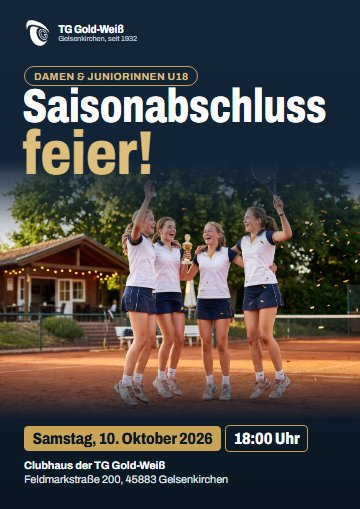
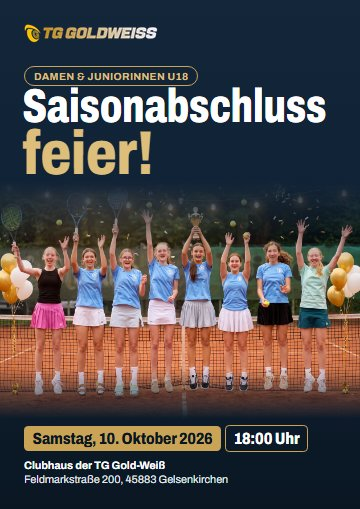
Plakat Saisonabschluss Damen/U18: Juniorinnen-Foto und Wasserzeichen TG Goldweiss

diff --git a/index.html b/index.html
@@ -180,7 +180,7 @@
             </div>
           </article>
           <article class="event ev-poster">
-            <a class="poster" href="img/events/saisonabschluss-damen-u18-gross.jpg" data-lightbox aria-label="Plakat Saisonabschlussfeier Damen und Juniorinnen U18 groß anzeigen"><img src="img/events/saisonabschluss-damen-u18.jpg" alt="Plakat zur Saisonabschlussfeier der Damen und Juniorinnen U18 am 10. Oktober 2026: vier Juniorinnen in Tenniskleidung jubeln mit Pokal und Schläger auf dem Sandplatz" width="360" height="509" loading="lazy"></a>
+            <a class="poster" href="img/events/saisonabschluss-damen-u18-gross.jpg" data-lightbox aria-label="Plakat Saisonabschlussfeier Damen und Juniorinnen U18 groß anzeigen"><img src="img/events/saisonabschluss-damen-u18.jpg" alt="Plakat zur Saisonabschlussfeier der Damen und Juniorinnen U18 am 10. Oktober 2026: die Juniorinnen springen jubelnd mit Pokal, Schlägern und Konfetti vor dem Netz in die Luft" width="360" height="509" loading="lazy"></a>
             <div>
               <p class="ev-date">Samstag, 10.&nbsp;Oktober&nbsp;2026, 18:00&nbsp;Uhr</p>
               <h3>Saison&shy;abschluss&shy;feier der Damen und Juniorinnen&nbsp;U18</h3>
